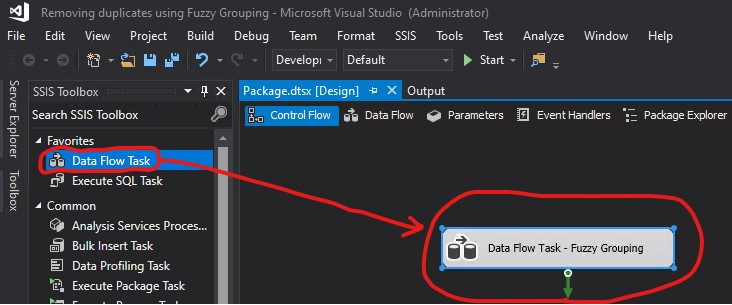
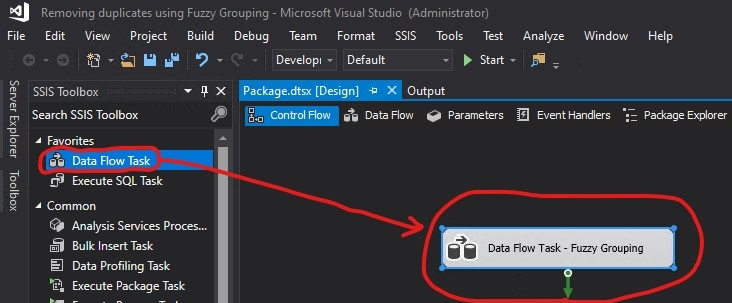
Modify picture.

diff --git a/blog/2023/12/12/05/59/book-info-20231212-0559.php b/blog/2023/12/12/05/59/book-info-20231212-0559.php
@@ -1,4 +1,4 @@
 <?php
   $index->content .= 
-           "<p>I used <a href=\"includes/FuzzyGroupingExample.txt\">FuzzyGroupingExample.txt</a> to create my reference table. I opened Visual Studio and created a new project:</p><div><img src=\"/blog/2023/12/12/05/59/img/createNewProject.jpg\" alt=\"Create new project\" width=\"619\" height=\"119\"></div><p>I provided a name and location for my new project:</p><div><img src=\"/blog/2023/12/12/05/59/img/provideNameAndLocationForNewProject.jpg\" alt=\"Provide name and location for new project\" width=\"935\" height=\"649\"></div><p>I created a <span class=\"cod\">Data Flow Task</span>:</p><div><img src=\"/blog/2023/12/12/05/59/img/createDataFlowTask.jpg\" alt=\"Create Data Flow Task\" width=\"732\" height=\"305\"></div><p>I right-clicked the <span class=\"cod\">Connection Managers</span> area and then clicked <span class=\"cod\">New Flat File Connection...</span></p><div><img src=\"/blog/2023/12/12/05/59/img/createNewFlatFileConnection.jpg\" alt=\"Create New Flat File Connection\" width=\"1042\" height=\"732\"></div><div>Published: 5:59 AM GMT · Dec 12, 2023</div>\n";
+           "<p>I used <a href=\"includes/FuzzyGroupingExample.txt\">FuzzyGroupingExample.txt</a> to create my reference table. I opened Visual Studio and created a new project:</p><div><img src=\"/blog/2023/12/12/05/59/img/createNewProject.jpg\" alt=\"Create new project\" width=\"619\" height=\"119\"></div><p>I provided a name and location for my new project:</p><div><img src=\"/blog/2023/12/12/05/59/img/provideNameAndLocationForNewProject.jpg\" alt=\"Provide name and location for new project\" width=\"935\" height=\"649\"></div><p>I created a <span class=\"cod\">Data Flow Task</span>:</p><div><img src=\"/blog/2023/12/12/05/59/img/createDataFlowTask.jpg\" alt=\"Create Data Flow Task\" width=\"732\" height=\"303\"></div><p>I right-clicked the <span class=\"cod\">Connection Managers</span> area and then clicked <span class=\"cod\">New Flat File Connection...</span></p><div><img src=\"/blog/2023/12/12/05/59/img/createNewFlatFileConnection.jpg\" alt=\"Create New Flat File Connection\" width=\"1042\" height=\"732\"></div><div>Published: 5:59 AM GMT · Dec 12, 2023</div>\n";
 ?>
